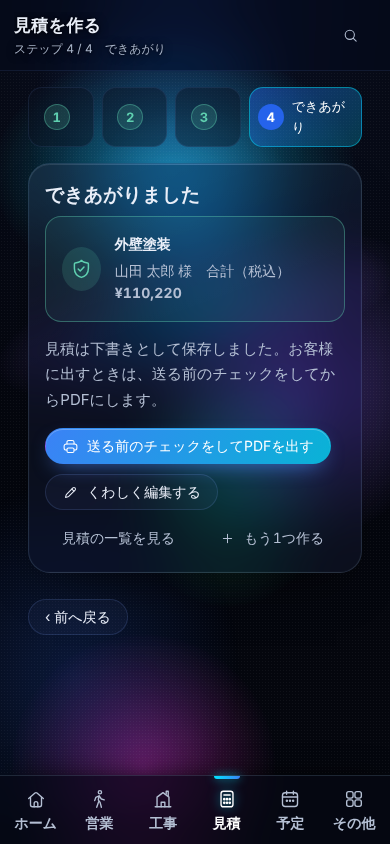
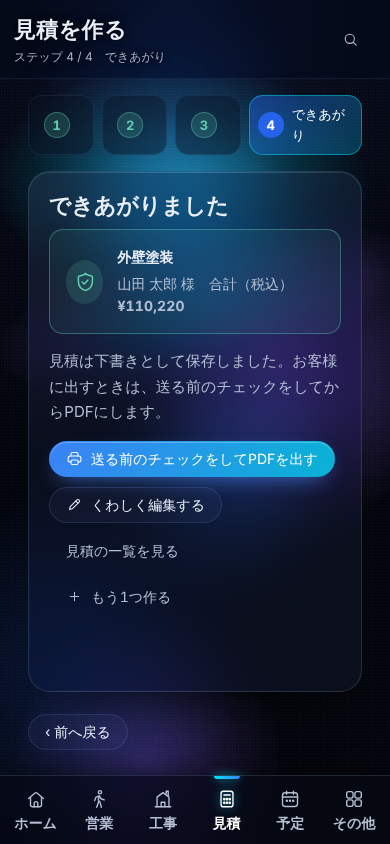
統一：ホームの主役は1つ（パソコン＝見積を作る、スマホ＝営業に出る）＋普通のボタン3つ、パネルははじめ6つ（数字3つ・今日のボード・今日やること・最近の見積）。見積を作る画面は「次へ」をいつも見える位置に。知らせは下の中央
Claude-Session: https://claude.ai/code/session_011YfgaKNg5BLHuBJZ1Hhi4R

diff --git a/oubi/mitsu.js b/oubi/mitsu.js
@@ -3451,8 +3451,9 @@
     switch (role) {
       // 桜ミツ版の標準：今日のこと → 数字 → やること → 書類・流れ・お金
       // 桜ミツ版：1画面（1920×1080）に収まる3段。1段目 時計・今日・数字2つ／2段目 数字2つ・今日やること／3段目 最近の見積・工事の流れ
-      case 'link': return [w('clock', 's'), w('today', 's', { color: 'teal' }), w('kpi', 's', { metric: 'active', color: 'teal' }), w('kpi', 's', { metric: 'drafts', color: 'violet' }),
-        w('kpi', 's', { metric: 'unpaid', color: 'amber' }), w('kpi', 's', { metric: 'monthOrder' }), w('todo', 'm'), w('recent', 'm'), w('flow', 'm')];
+      // 桜ミツ版：はじめに出すのは6つだけ（1段目 数字3つ／2段目 今日のボード・今日やること・最近の見積）。ほかは「並べ替え・追加」から
+      case 'link': return [w('kpi', 's', { metric: 'monthOrder' }), w('kpi', 's', { metric: 'drafts' }), w('kpi', 's', { metric: 'active' }),
+        w('today', 's'), w('todo', 's'), w('recent', 's')];
       case 'sales': return [w('clock', 'm'), w('kpi', 's', { metric: 'drafts' }), w('kpi', 's', { metric: 'waiting', color: 'violet' }), w('todo', 'm'), w('quick', 'm'), w('recent', 'l'), w('kpi', 's', { metric: 'overdue', color: 'amber' }), w('kpi', 's', { metric: 'customers', color: 'teal' }), w('usage', 'm')];
       case 'site': return [w('clock', 'm'), w('kpi', 's', { metric: 'active', color: 'teal' }), w('kpi', 's', { metric: 'today' }), w('todo', 'm'), w('quick', 'm'), w('events', 'l'), w('favorites', 'm')];
       case 'office': return [w('clock', 'm'), w('kpi', 's', { metric: 'unpaid', color: 'violet' }), w('kpi', 's', { metric: 'waiting' }), w('attention', 'm'), w('quick', 'm'), w('recent', 'l'), w('members', 'l')];
@@ -3477,7 +3478,8 @@
       h.active = 'main'; h.auto = false;
       // 前の標準（縦に長い並び）のままなら、1画面に収まる新しい標準へ
       var mainL = h.layouts.filter(function (l) { return l.key === 'main'; })[0];
-      if (mainL && mainL.widgets.map(function (x) { return x.type; }).join(',') === 'clock,today,kpi,kpi,kpi,kpi,todo,recent,flow,bars') { mainL.widgets = preset('link'); U.commit(); }
+      var was = mainL && mainL.widgets.map(function (x) { return x.type; }).join(',');
+      if (was === 'clock,today,kpi,kpi,kpi,kpi,todo,recent,flow,bars' || was === 'clock,today,kpi,kpi,kpi,kpi,todo,recent,flow') { mainL.widgets = preset('link'); U.commit(); }
       return h;
     }
     if (!h) {
@@ -3603,15 +3605,19 @@
   /* 桜ミツ版：ホームの一番上に、よく使う4つの大きなボタン（迷ったらここから） */
   function launchHTML() {
     var o = linkO(), c = o && o.todayCounts ? o.todayCounts() : { work: 0, sv: 0, rv: 0 }, nToday = (c.work || 0) + (c.sv || 0) + (c.rv || 0);
-    var L = [
-      ['sales', '#/o/sales', I.walk, '営業に出る', '今日の再訪問 ' + (c.rv || 0) + ' 件'],
-      ['site', '#/o/new', I.site, '工事を登録する', '名前だけでOK'],
-      ['est', '#/w', I.calc, '見積を作る', '「次へ」で進むだけ'],
-      ['cal', '#/o/cal', I.calendar, '今日の予定を見る', '今日 ' + nToday + ' 件']
-    ];
-    return '<nav class="launch" aria-label="よく使うこと" data-st>' + L.map(function (x) {
-      return '<a class="launch-tile lt-' + x[0] + '" href="' + x[1] + '"><span class="lt-ic">' + x[2] + '</span><span class="lt-tx"><b>' + x[3] + '</b><small>' + esc(x[4]) + '</small></span><span class="lt-go" aria-hidden="true">›</span></a>';
-    }).join('') + '</nav>';
+    var A = {
+      sales: ['sales', '#/o/sales', I.walk, '営業に出る', '今日の再訪問 ' + (c.rv || 0) + ' 件', '営業'],
+      site: ['site', '#/o/new', I.site, '工事を登録する', '名前だけでOK', '工事を登録'],
+      est: ['est', '#/w', I.calc, '見積を作る', '「次へ」で進むだけ', '見積を作る'],
+      cal: ['cal', '#/o/cal', I.calendar, '今日の予定を見る', '今日 ' + nToday + ' 件', '今日の予定']
+    };
+    // 主役は1つ：パソコンは「見積を作る」、スマホは「営業に出る」。残りの3つは普通の大きさのボタン
+    var phone = root.innerWidth <= 760, main = phone ? 'sales' : 'est';
+    var rest = ['est', 'sales', 'site', 'cal'].filter(function (k) { return k !== main; });
+    var m = A[main];
+    return '<nav class="launch" aria-label="よく使うこと" data-st>' +
+      '<a class="launch-tile lt-main lt-' + m[0] + '" href="' + m[1] + '"><span class="lt-ic">' + m[2] + '</span><span class="lt-tx"><b>' + m[3] + '</b><small>' + esc(m[4]) + '</small></span><span class="lt-go" aria-hidden="true">›</span></a>' +
+      '<div class="launch-sub">' + rest.map(function (k) { var x = A[k]; return '<a class="btn launch-btn2 lt-' + x[0] + '" href="' + x[1] + '" title="' + esc(x[4]) + '">' + x[2] + '<span class="lb-l">' + x[3] + '</span><span class="lb-s" aria-hidden="true">' + x[5] + '</span></a>'; }).join('') + '</div></nav>';
   }
 
   function setupHTML() {
@@ -5584,7 +5590,7 @@
       '<button class="btn primary wz-next" type="button" data-wz="next"' + (nextOk ? '' : ' disabled') + '>' + (nextLabel || '次へ') + ' ›</button></div>';
   }
   function page(n, q, body, nextOk, nextLabel) {
-    return '<div class="wz" data-step="' + n + '">' + stepper(n) + '<section class="panel wz-card" data-st><h1 class="wz-q">' + q + '</h1>' + body + '</section>' + foot(n, nextOk, nextLabel) + '</div>';
+    return '<div class="wz" data-nopager data-step="' + n + '">' + stepper(n) + '<section class="panel wz-card" data-st><h1 class="wz-q">' + q + '</h1>' + body + '</section>' + foot(n, nextOk, nextLabel) + '</div>';
   }
 
   /* ---------- 1 どの工事？ ---------- */
@@ -5650,7 +5656,7 @@
       '<p class="wz-help">見積は下書きとして保存しました。お客様に出すときは、送る前のチェックをしてからPDFにします。</p>' +
       '<div class="wz-actions"><button type="button" class="btn primary" data-wz="pdf">' + I.pdf + '送る前のチェックをしてPDFを出す</button>' +
       '<a class="btn" href="#/edit/' + d.id + '">' + I.edit + 'くわしく編集する</a><a class="btn ghost" href="#/docs">見積の一覧を見る</a><button type="button" class="btn ghost" data-wz="again">' + I.plus + 'もう1つ作る</button></div>';
-    return '<div class="wz" data-step="4">' + stepper(4) + '<section class="panel wz-card" data-st><h1 class="wz-q">できあがりました</h1>' + body + '</section>' +
+    return '<div class="wz" data-nopager data-step="4">' + stepper(4) + '<section class="panel wz-card" data-st><h1 class="wz-q">できあがりました</h1>' + body + '</section>' +
       '<div class="wz-foot"><a class="btn" href="#/w/3">‹ 前へ戻る</a></div></div>';
   }
 

diff --git a/easy-estimate/js/views/control.js b/easy-estimate/js/views/control.js
@@ -77,8 +77,9 @@
     switch (role) {
       // 桜ミツ版の標準：今日のこと → 数字 → やること → 書類・流れ・お金
       // 桜ミツ版：1画面（1920×1080）に収まる3段。1段目 時計・今日・数字2つ／2段目 数字2つ・今日やること／3段目 最近の見積・工事の流れ
-      case 'link': return [w('clock', 's'), w('today', 's', { color: 'teal' }), w('kpi', 's', { metric: 'active', color: 'teal' }), w('kpi', 's', { metric: 'drafts', color: 'violet' }),
-        w('kpi', 's', { metric: 'unpaid', color: 'amber' }), w('kpi', 's', { metric: 'monthOrder' }), w('todo', 'm'), w('recent', 'm'), w('flow', 'm')];
+      // 桜ミツ版：はじめに出すのは6つだけ（1段目 数字3つ／2段目 今日のボード・今日やること・最近の見積）。ほかは「並べ替え・追加」から
+      case 'link': return [w('kpi', 's', { metric: 'monthOrder' }), w('kpi', 's', { metric: 'drafts' }), w('kpi', 's', { metric: 'active' }),
+        w('today', 's'), w('todo', 's'), w('recent', 's')];
       case 'sales': return [w('clock', 'm'), w('kpi', 's', { metric: 'drafts' }), w('kpi', 's', { metric: 'waiting', color: 'violet' }), w('todo', 'm'), w('quick', 'm'), w('recent', 'l'), w('kpi', 's', { metric: 'overdue', color: 'amber' }), w('kpi', 's', { metric: 'customers', color: 'teal' }), w('usage', 'm')];
       case 'site': return [w('clock', 'm'), w('kpi', 's', { metric: 'active', color: 'teal' }), w('kpi', 's', { metric: 'today' }), w('todo', 'm'), w('quick', 'm'), w('events', 'l'), w('favorites', 'm')];
       case 'office': return [w('clock', 'm'), w('kpi', 's', { metric: 'unpaid', color: 'violet' }), w('kpi', 's', { metric: 'waiting' }), w('attention', 'm'), w('quick', 'm'), w('recent', 'l'), w('members', 'l')];
@@ -103,7 +104,8 @@
       h.active = 'main'; h.auto = false;
       // 前の標準（縦に長い並び）のままなら、1画面に収まる新しい標準へ
       var mainL = h.layouts.filter(function (l) { return l.key === 'main'; })[0];
-      if (mainL && mainL.widgets.map(function (x) { return x.type; }).join(',') === 'clock,today,kpi,kpi,kpi,kpi,todo,recent,flow,bars') { mainL.widgets = preset('link'); U.commit(); }
+      var was = mainL && mainL.widgets.map(function (x) { return x.type; }).join(',');
+      if (was === 'clock,today,kpi,kpi,kpi,kpi,todo,recent,flow,bars' || was === 'clock,today,kpi,kpi,kpi,kpi,todo,recent,flow') { mainL.widgets = preset('link'); U.commit(); }
       return h;
     }
     if (!h) {
@@ -229,15 +231,19 @@
   /* 桜ミツ版：ホームの一番上に、よく使う4つの大きなボタン（迷ったらここから） */
   function launchHTML() {
     var o = linkO(), c = o && o.todayCounts ? o.todayCounts() : { work: 0, sv: 0, rv: 0 }, nToday = (c.work || 0) + (c.sv || 0) + (c.rv || 0);
-    var L = [
-      ['sales', '#/o/sales', I.walk, '営業に出る', '今日の再訪問 ' + (c.rv || 0) + ' 件'],
-      ['site', '#/o/new', I.site, '工事を登録する', '名前だけでOK'],
-      ['est', '#/w', I.calc, '見積を作る', '「次へ」で進むだけ'],
-      ['cal', '#/o/cal', I.calendar, '今日の予定を見る', '今日 ' + nToday + ' 件']
-    ];
-    return '<nav class="launch" aria-label="よく使うこと" data-st>' + L.map(function (x) {
-      return '<a class="launch-tile lt-' + x[0] + '" href="' + x[1] + '"><span class="lt-ic">' + x[2] + '</span><span class="lt-tx"><b>' + x[3] + '</b><small>' + esc(x[4]) + '</small></span><span class="lt-go" aria-hidden="true">›</span></a>';
-    }).join('') + '</nav>';
+    var A = {
+      sales: ['sales', '#/o/sales', I.walk, '営業に出る', '今日の再訪問 ' + (c.rv || 0) + ' 件', '営業'],
+      site: ['site', '#/o/new', I.site, '工事を登録する', '名前だけでOK', '工事を登録'],
+      est: ['est', '#/w', I.calc, '見積を作る', '「次へ」で進むだけ', '見積を作る'],
+      cal: ['cal', '#/o/cal', I.calendar, '今日の予定を見る', '今日 ' + nToday + ' 件', '今日の予定']
+    };
+    // 主役は1つ：パソコンは「見積を作る」、スマホは「営業に出る」。残りの3つは普通の大きさのボタン
+    var phone = root.innerWidth <= 760, main = phone ? 'sales' : 'est';
+    var rest = ['est', 'sales', 'site', 'cal'].filter(function (k) { return k !== main; });
+    var m = A[main];
+    return '<nav class="launch" aria-label="よく使うこと" data-st>' +
+      '<a class="launch-tile lt-main lt-' + m[0] + '" href="' + m[1] + '"><span class="lt-ic">' + m[2] + '</span><span class="lt-tx"><b>' + m[3] + '</b><small>' + esc(m[4]) + '</small></span><span class="lt-go" aria-hidden="true">›</span></a>' +
+      '<div class="launch-sub">' + rest.map(function (k) { var x = A[k]; return '<a class="btn launch-btn2 lt-' + x[0] + '" href="' + x[1] + '" title="' + esc(x[4]) + '">' + x[2] + '<span class="lb-l">' + x[3] + '</span><span class="lb-s" aria-hidden="true">' + x[5] + '</span></a>'; }).join('') + '</div></nav>';
   }
 
   function setupHTML() {

diff --git a/oubi/web.css b/oubi/web.css
@@ -209,3 +209,30 @@ body.ee-link h3, body.ee-link .panel-h h3 { font-size: 14px !important; font-wei
 body.ee-link :is(p, .sub, .hint, .wz-help) { line-height: 1.7; }
 body.ee-link .heat-scale i { border-radius: 14px !important; }
 body.ee-link .heat-sum .hs-row i { border-radius: 14px !important; }
+
+/* ===== ホーム：主役は1つ（パソコン＝見積を作る、スマホ＝営業に出る）、残り3つは普通の大きさのボタン ===== */
+body.ee-link .launch { grid-template-columns: minmax(0, 1fr) minmax(0, 1.5fr); gap: 16px; align-items: stretch; }
+body.ee-link .launch-tile.lt-main { min-height: 84px; border-color: rgba(0, 229, 255, .45); box-shadow: 0 0 0 1px rgba(0, 229, 255, .18) inset, 0 14px 32px -20px rgba(0, 229, 255, .7); }
+body.ee-link .launch-tile.lt-main .lt-tx b { font-size: 20px; }
+body.ee-link .launch-sub { display: grid; grid-template-columns: repeat(3, minmax(0, 1fr)); gap: 12px; align-content: center; }
+body.ee-link .launch-btn2 { height: 52px; justify-content: flex-start; padding: 0 16px; gap: 10px; font-size: 15px; font-weight: 600; }
+body.ee-link .launch-btn2 svg { width: 20px; height: 20px; color: #8ab8ff; }
+/* パネル：はじめは6つ。1段目は数字3つ（中身の高さだけ）、2段目は残りの高さいっぱい */
+@media (min-width: 761px) {
+  body.ee-link .widgets:not(.editing) { grid-template-columns: repeat(3, minmax(0, 1fr)); grid-template-rows: auto minmax(0, 1fr); grid-auto-rows: minmax(0, 1fr); overflow: auto; }
+  body.ee-link .widgets:not(.editing) > .widget { grid-column: auto !important; }
+}
+@media (max-width: 760px) {
+  body.ee-link .launch { grid-template-columns: 1fr; gap: 10px; }
+  body.ee-link .launch-sub { gap: 8px; }
+  body.ee-link .launch-btn2 { flex-direction: column; justify-content: center; gap: 2px; height: auto; min-height: 52px; padding: 6px 4px; font-size: 14px; white-space: normal; text-align: center; line-height: 1.3; }
+}
+body.ee-link .launch-btn2 .lb-s { display: none; }
+@media (max-width: 760px) { body.ee-link .launch-btn2 .lb-l { position: absolute; width: 1px; height: 1px; overflow: hidden; clip: rect(0 0 0 0); } body.ee-link .launch-btn2 .lb-s { display: inline; } }
+/* 見積を作る（次へで進む）：上の段階と下の「次へ」はいつも見える。中身だけ枠の中で動く */
+body.ee-link .wz { width: 100%; height: 100%; display: flex; flex-direction: column; min-height: 0; }
+body.ee-link .wz > .wz-steps, body.ee-link .wz > .wz-foot { flex: none; }
+body.ee-link .wz > .wz-card { flex: 1 1 auto; min-height: 0; overflow: auto; }
+body.ee-link .wz > .wz-foot { position: static; margin-top: 12px; }
+/* 知らせは下の中央（右下の「次へ」「保存」などの主役のボタンに重ならない） */
+@media (min-width: 761px) { body.ee-link .toasts { left: 50%; right: auto; transform: translateX(-50%); align-items: center; } }

diff --git a/oubi/tests/web-wizard.js b/oubi/tests/web-wizard.js
@@ -15,7 +15,7 @@ const OUT = path.join(__dirname, '..', 'screenshots') + '/';
     const sp = vp.width < 500, tag = sp ? '（スマホ）' : '';
     const p = await openWeb(b, { viewport: vp, wait: 3500 }); watch(p);
     // ホーム
-    ok((await p.$$eval('.launch .launch-tile b', a => a.map(x => x.textContent))).join('|') === '営業に出る|工事を登録する|見積を作る|今日の予定を見る', 'ホームの一番上に大きなボタン4つ' + tag);
+    ok((await p.$eval('.launch .lt-main b', b => b.textContent)) === (sp ? '営業に出る' : '見積を作る') && (await p.$$('.launch .launch-btn2')).length === 3, 'ホームの主役は1つ（' + (sp ? 'スマホ＝営業に出る' : 'パソコン＝見積を作る') + '）、ほかの3つは普通のボタン' + tag);
     if (!sp) {
       ok((await p.$$('.nav-child')).length === 0 && (await p.$$('.nav-item')).length === 7, '左のメニューは7項目だけ（細かい項目は出さない）');
       await p.click('.nav-item[data-nav="settings"]'); await p.waitForTimeout(1500);
@@ -26,7 +26,7 @@ const OUT = path.join(__dirname, '..', 'screenshots') + '/';
       ok(await p.$eval('#sectabs', e => e.hidden), 'ホームにはタブを出さない');
     }
     // 1 工事
-    await p.click('.launch-tile.lt-est'); await p.waitForTimeout(1200);
+    await p.click('.launch .lt-est'); await p.waitForTimeout(1200);
     ok(/#\/w$/.test(p.url()) && /どの工事の見積ですか/.test(await p.textContent('#view')), '「見積を作る」→ ステップ1「どの工事の見積ですか？」' + tag);
     ok(await p.$eval('[data-wz="next"]', b => b.disabled), '選ぶまでは「次へ」を押せない');
     await p.fill('#wz-cust', '山田 太郎'); await p.fill('#wz-title', '外壁塗装');

diff --git a/easy-estimate/js/views/wizard.js b/easy-estimate/js/views/wizard.js
@@ -25,7 +25,7 @@
       '<button class="btn primary wz-next" type="button" data-wz="next"' + (nextOk ? '' : ' disabled') + '>' + (nextLabel || '次へ') + ' ›</button></div>';
   }
   function page(n, q, body, nextOk, nextLabel) {
-    return '<div class="wz" data-step="' + n + '">' + stepper(n) + '<section class="panel wz-card" data-st><h1 class="wz-q">' + q + '</h1>' + body + '</section>' + foot(n, nextOk, nextLabel) + '</div>';
+    return '<div class="wz" data-nopager data-step="' + n + '">' + stepper(n) + '<section class="panel wz-card" data-st><h1 class="wz-q">' + q + '</h1>' + body + '</section>' + foot(n, nextOk, nextLabel) + '</div>';
   }
 
   /* ---------- 1 どの工事？ ---------- */
@@ -91,7 +91,7 @@
       '<p class="wz-help">見積は下書きとして保存しました。お客様に出すときは、送る前のチェックをしてからPDFにします。</p>' +
       '<div class="wz-actions"><button type="button" class="btn primary" data-wz="pdf">' + I.pdf + '送る前のチェックをしてPDFを出す</button>' +
       '<a class="btn" href="#/edit/' + d.id + '">' + I.edit + 'くわしく編集する</a><a class="btn ghost" href="#/docs">見積の一覧を見る</a><button type="button" class="btn ghost" data-wz="again">' + I.plus + 'もう1つ作る</button></div>';
-    return '<div class="wz" data-step="4">' + stepper(4) + '<section class="panel wz-card" data-st><h1 class="wz-q">できあがりました</h1>' + body + '</section>' +
+    return '<div class="wz" data-nopager data-step="4">' + stepper(4) + '<section class="panel wz-card" data-st><h1 class="wz-q">できあがりました</h1>' + body + '</section>' +
       '<div class="wz-foot"><a class="btn" href="#/w/3">‹ 前へ戻る</a></div></div>';
   }
 

diff --git a/oubi/tests/web-improve.js b/oubi/tests/web-improve.js
@@ -33,7 +33,7 @@ const OUT = path.join(__dirname, '..', 'screenshots') + '/';
   // ---- ホーム・見積の入口 ----
   p = await openWeb(b, { wait: 3500 }); watch(p);
   ok(!(await p.$('#home-layout')) && await p.isVisible('[data-act="w-edit"]'), 'ホームは標準の1型（型の切り替えは出さない）。並べ替え・追加は控えめなボタン');
-  ok(/営業に出る/.test(await p.textContent('.launch')) && (await p.$$eval('#view .widget', w => w.map(x => x.dataset.type))).slice(0, 2).join(',') === 'clock,today', '標準のホーム：上に大きなボタン（営業に出る など）、その下に時計・今日のボード');
+  ok(/見積を作る/.test(await p.textContent('.launch .lt-main')) && (await p.$$('.launch .launch-btn2')).length === 3 && (await p.$$eval('#view .widget', w => w.map(x => x.dataset.type))).join(',') === 'kpi,kpi,kpi,today,todo,recent', '標準のホーム：主役は「見積を作る」1つ＋普通のボタン3つ、パネルは6つ');
   ok((await p.$$eval('.nav-item[data-nav="estimate"] ~ .nav-sub a, .nav-group[data-key="estimate"] .nav-child', a => a.map(x => x.textContent.trim()))).join('|').indexOf('かんたん作成') < 0, '見積の子メニューに作り方を並べない（入口は「＋ 見積を作る」の1つ）');
   await go(p, '#/new', 1500);
   ok((await p.textContent('#title')) === '見積を作る' && (await p.$$('#view .quick-card')).length >= 7, '「見積を作る」の中で作り方を選ぶ');

diff --git a/oubi/tests/web.js b/oubi/tests/web.js
@@ -18,7 +18,7 @@ const OUT = path.join(__dirname, '..', 'screenshots') + '/'; fs.mkdirSync(OUT, {
   let p = await openWeb(b, { wait: 3500 }); watch(p);
   const nav = await p.$$eval('.nav-item', a => a.map(x => x.textContent.trim()));
   ok(nav.join('|') === 'ホーム|営業|工事|見積|予定|経営|設定', '左のメニューは7つ（同じ種類の画面を2つ並べない）');
-  ok((await p.$$eval('#view .widget', w => w.length)) >= 8 && await p.isVisible('[data-clock]'), 'ホームは桜ミツのウィジェット式のまま（時計・数字…）');
+  ok((await p.$$eval('#view .widget', w => w.length)) === 6 && (await p.$$('#view .widget[data-type="kpi"]')).length === 3, 'ホームは桜ミツのウィジェット式（はじめは6つ：数字3つ・今日のボード・今日やること・最近の見積）');
   await p.screenshot({ path: OUT + 'web-home.png' });
 
   // ---- 工事（業務管理）→ 顧客（桜ミツ）に出る ----

diff --git a/oubi/pager.js b/oubi/pager.js
@@ -39,6 +39,7 @@
     var prev = el.querySelectorAll('.pg-on'); [].forEach.call(prev, clear); clear(el);
     if (root.innerWidth > PHONE) return;
     var box = target(el);
+    if (box.hasAttribute('data-nopager') || box.querySelector(':scope > [data-nopager]')) return;   // 自分で1画面に収める画面（見積を作る など）
     var H = scroller === root ? root.innerHeight : scroller.clientHeight;
     var cs = scroller === root ? null : getComputedStyle(scroller);
     var pad = cs ? parseFloat(cs.paddingTop) + parseFloat(cs.paddingBottom) : 0;
